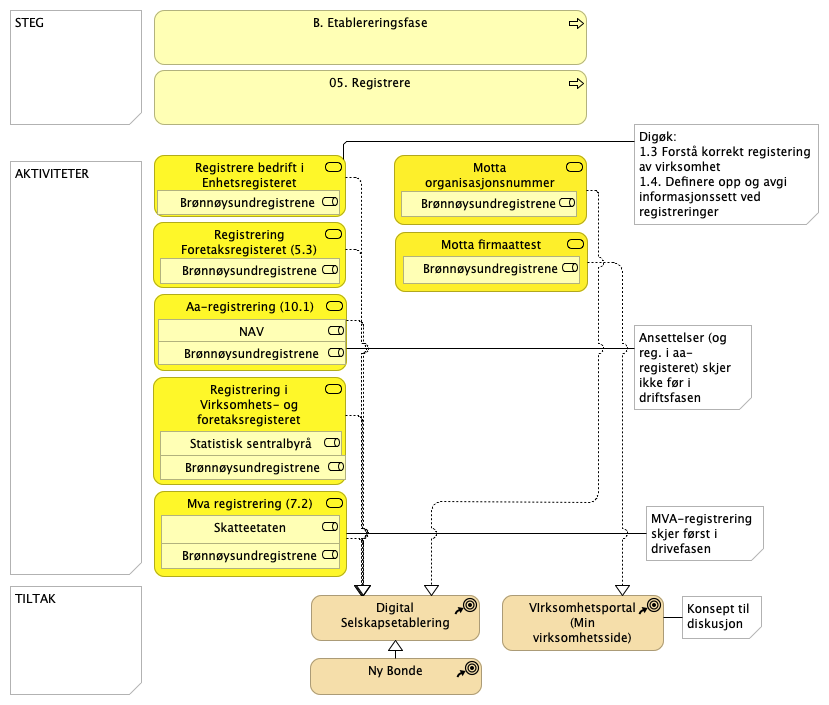
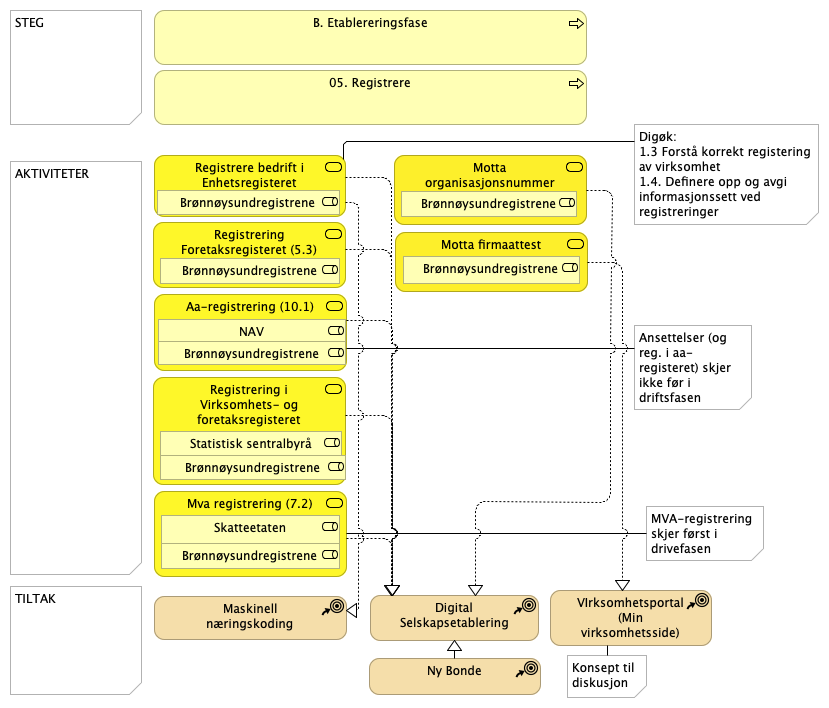
starte og drive bedrift

diff --git a/docs/id-0322705d/views/17fd48d4-a70b-450e-a4de-7787e6095603.html b/docs/id-0322705d/views/17fd48d4-a70b-450e-a4de-7787e6095603.html
@@ -53,9 +53,10 @@
 								<area shape="rect" coords="403,256,580,284" href="../elements/id-85e0d52e-1714-402c-9d18-fdf28509f205.html"  target="element">
 
 						<area shape="rect" coords="395,232,588,292" href="../elements/id-1a14dc49-958b-499f-849e-833440b93e6f.html"  target="element">
-						<area shape="rect" coords="311,595,480,641" href="../elements/id-9fdfa703-6ac3-43db-8d3f-cddaf645ffb6.html"  target="element">
-						<area shape="rect" coords="310,658,482,695" href="../elements/0e2b4eec-7d45-4977-9838-9c6a6f415bc1.html"  target="element">
-						<area shape="rect" coords="502,595,664,651" href="../elements/id-0139d1fc-1711-4ed6-9f17-8fad8ec8545e.html"  target="element">
+						<area shape="rect" coords="370,595,539,641" href="../elements/id-9fdfa703-6ac3-43db-8d3f-cddaf645ffb6.html"  target="element">
+						<area shape="rect" coords="369,658,541,695" href="../elements/0e2b4eec-7d45-4977-9838-9c6a6f415bc1.html"  target="element">
+						<area shape="rect" coords="550,590,712,646" href="../elements/id-0139d1fc-1711-4ed6-9f17-8fad8ec8545e.html"  target="element">
+						<area shape="rect" coords="154,596,347,640" href="../elements/93cb4ca1-ac2d-46a8-9750-775d1c074c73.html"  target="element">
 
 			</map>
 			<div role="tabpanel">
@@ -130,6 +131,7 @@
 											<tr><td> <a href="../elements/id-0139d1fc-1711-4ed6-9f17-8fad8ec8545e.html" target="element"> VIrksomhetsportal (Min virksomhetsside) </a> </td><td class="i18n-elementtype-CourseOfAction"></td></tr>
 											<!-- DEBUG: Skipping element from class com.archimatetool.model.impl.DiagramModelNote -->
 											<!-- DEBUG: Skipping element from class com.archimatetool.model.impl.DiagramModelNote -->
+											<tr><td> <a href="../elements/93cb4ca1-ac2d-46a8-9750-775d1c074c73.html" target="element"> Maskinell n&#230;ringskoding </a> </td><td class="i18n-elementtype-CourseOfAction"></td></tr>
 
 								</tbody>
 							</table>
@@ -153,6 +155,12 @@
 																		<td> <a href="../elements/id-856bbf93-8255-46ac-b9a4-bff8813cc737.html" target="element" class="i18n-elementtype-RealizationRelationship"></a> </td>
 																		<td> <a href="../elements/id-a38feba5-7a8e-4d5f-a96b-7578e8194079.html" target="element"> Registrere bedrift i Enhetsregisteret </a> </td>
 																		<td> <a href="../elements/id-9fdfa703-6ac3-43db-8d3f-cddaf645ffb6.html" target="element"> Digital Selskapsetablering </a> </td>
+																	</tr>
+																	<tr>
+																		<td> <a href="../elements/ef8f8521-280f-4a48-b3ed-2262467601ea.html" target="element">  </a> </td>
+																		<td> <a href="../elements/ef8f8521-280f-4a48-b3ed-2262467601ea.html" target="element" class="i18n-elementtype-RealizationRelationship"></a> </td>
+																		<td> <a href="../elements/id-a38feba5-7a8e-4d5f-a96b-7578e8194079.html" target="element"> Registrere bedrift i Enhetsregisteret </a> </td>
+																		<td> <a href="../elements/93cb4ca1-ac2d-46a8-9750-775d1c074c73.html" target="element"> Maskinell n&#230;ringskoding </a> </td>
 																	</tr>
 
 																			<tr>

diff --git a/docs/id-0322705d/elements/ef8f8521-280f-4a48-b3ed-2262467601ea.html b/docs/id-0322705d/elements/ef8f8521-280f-4a48-b3ed-2262467601ea.html
@@ -1,0 +1,69 @@
+<!DOCTYPE HTML PUBLIC "-//W3C//DTD HTML 4.01 Transitional//EN" "http://www.w3.org/TR/html4/loose.dtd">
+<html class="frame" lang="en">
+<head>
+	<meta http-equiv="Content-Type" content="text/html;charset=utf-8">
+	<title></title>
+
+	<!-- JQUERY (use 1.x branch to be compatible with IE 6/7/8) -->
+	<script type="text/javascript" src="../../lib/jquery/js/jquery-1.11.2.min.js"></script>
+	<!-- BOOTSTRAP -->
+	<link type="text/css" rel="stylesheet" href="../../lib/bootstrap/css/bootstrap-3.3.2.min.css">
+	<link type="text/css" rel="stylesheet" href="../../lib/bootstrap/css/bootstrap-theme-3.3.2.min.css">
+	<script type="text/javascript" src="../../lib/bootstrap/js/bootstrap-3.3.2.min.js"></script>
+	<!-- REPORT SPECIFIC -->
+	<link type="text/css" rel="stylesheet" href="../../css/model.css">
+	<link type="text/css" rel="stylesheet" href="../../css/i18n.css">
+	<script type="text/javascript" src="../../js/frame.js"></script>
+	<script type="text/javascript" src="../../js/imageMapResizer.min.js"></script>
+</head>
+
+<body>
+	<div class="panel panel-default root-panel">
+		<div class="panel-heading root-panel-heading">
+			<b></b>
+			(<span class="i18n-elementtype-RealizationRelationship"></span>)
+			<a class="glyphicon glyphicon-info-sign" id="hint-RealizationRelationship" target="hint"></a>
+		</div>
+		<div class="panel-body root-panel-body">
+			<div role="tabpanel">
+				<!-- Nav tabs -->
+				<ul class="nav nav-tabs" role="tablist">
+					<li role="presentation" class="active"><a href="#documentation" aria-controls="documentation" role="tab" data-toggle="tab" class="i18n-documentation"></a></li>
+					<li role="presentation"><a href="#properties" aria-controls="properties" role="tab" data-toggle="tab" class="i18n-properties"></a></li>
+				</ul>
+
+				<!-- Tab panes -->
+				<div class="tab-content">
+					<div role="tabpanel" class="tab-pane active" id="documentation">
+							<br>
+							<b class="i18n-relation-source"></b>
+								<a href="../elements/id-a38feba5-7a8e-4d5f-a96b-7578e8194079.html" target="element">
+									Registrere bedrift i Enhetsregisteret
+								</a> <br>
+							<b class="i18n-relation-target"></b>
+								<a href="../elements/93cb4ca1-ac2d-46a8-9750-775d1c074c73.html" target="element">
+									Maskinell n&#230;ringskoding
+								</a> <br>
+							<br>
+						<textarea id="docsrc" style="display:none"></textarea>
+						<div id="doctgt" style="white-space:pre-wrap"></div>
+					</div>
+					<div role="tabpanel" class="tab-pane" id="properties">
+						<table class="table table-striped table-hover table-condensed">
+							<thead>
+								<tr>
+									<th class="i18n-key"></th>
+									<th class="i18n-value"></th>
+								</tr>
+							</thead>
+							<tbody>
+							</tbody>
+						</table>
+					</div>
+			  </div>
+			</div>
+		</div>
+	</div>
+	<script type="text/javascript">imageMapResize();</script>
+</body>
+</html>

diff --git a/docs/id-0322705d/elements/93cb4ca1-ac2d-46a8-9750-775d1c074c73.html b/docs/id-0322705d/elements/93cb4ca1-ac2d-46a8-9750-775d1c074c73.html
@@ -1,0 +1,59 @@
+<!DOCTYPE HTML PUBLIC "-//W3C//DTD HTML 4.01 Transitional//EN" "http://www.w3.org/TR/html4/loose.dtd">
+<html class="frame" lang="en">
+<head>
+	<meta http-equiv="Content-Type" content="text/html;charset=utf-8">
+	<title>Maskinell næringskoding</title>
+
+	<!-- JQUERY (use 1.x branch to be compatible with IE 6/7/8) -->
+	<script type="text/javascript" src="../../lib/jquery/js/jquery-1.11.2.min.js"></script>
+	<!-- BOOTSTRAP -->
+	<link type="text/css" rel="stylesheet" href="../../lib/bootstrap/css/bootstrap-3.3.2.min.css">
+	<link type="text/css" rel="stylesheet" href="../../lib/bootstrap/css/bootstrap-theme-3.3.2.min.css">
+	<script type="text/javascript" src="../../lib/bootstrap/js/bootstrap-3.3.2.min.js"></script>
+	<!-- REPORT SPECIFIC -->
+	<link type="text/css" rel="stylesheet" href="../../css/model.css">
+	<link type="text/css" rel="stylesheet" href="../../css/i18n.css">
+	<script type="text/javascript" src="../../js/frame.js"></script>
+	<script type="text/javascript" src="../../js/imageMapResizer.min.js"></script>
+</head>
+
+<body>
+	<div class="panel panel-default root-panel">
+		<div class="panel-heading root-panel-heading">
+			<b>Maskinell n&#230;ringskoding</b>
+			(<span class="i18n-elementtype-CourseOfAction"></span>)
+			<a class="glyphicon glyphicon-info-sign" id="hint-CourseOfAction" target="hint"></a>
+		</div>
+		<div class="panel-body root-panel-body">
+			<div role="tabpanel">
+				<!-- Nav tabs -->
+				<ul class="nav nav-tabs" role="tablist">
+					<li role="presentation" class="active"><a href="#documentation" aria-controls="documentation" role="tab" data-toggle="tab" class="i18n-documentation"></a></li>
+					<li role="presentation"><a href="#properties" aria-controls="properties" role="tab" data-toggle="tab" class="i18n-properties"></a></li>
+				</ul>
+
+				<!-- Tab panes -->
+				<div class="tab-content">
+					<div role="tabpanel" class="tab-pane active" id="documentation">
+						<textarea id="docsrc" style="display:none"></textarea>
+						<div id="doctgt" style="white-space:pre-wrap"></div>
+					</div>
+					<div role="tabpanel" class="tab-pane" id="properties">
+						<table class="table table-striped table-hover table-condensed">
+							<thead>
+								<tr>
+									<th class="i18n-key"></th>
+									<th class="i18n-value"></th>
+								</tr>
+							</thead>
+							<tbody>
+							</tbody>
+						</table>
+					</div>
+			  </div>
+			</div>
+		</div>
+	</div>
+	<script type="text/javascript">imageMapResize();</script>
+</body>
+</html>

diff --git a/docs/id-0322705d/elements/model.html b/docs/id-0322705d/elements/model.html
@@ -804,6 +804,7 @@ Startpunkter
 										dataElements.push({id:"e3622700-9541-45de-8686-8ffa25d0df3c", type:"CourseOfAction", name:decodeURL("S%C3%B8k+i+konkurskarantene+%28Konkursregisteret%29"), description:decodeURL("")});
 										dataElements.push({id:"d3f5928c-200a-46bd-a149-962b5c04d0d2", type:"CourseOfAction", name:decodeURL("Offentlig+informasjon+i+nettbank"), description:decodeURL("")});
 										dataElements.push({id:"af58a96e-566d-4b07-935c-ece1e9d8cbb8", type:"CourseOfAction", name:decodeURL("IPR+lisens+og+panteregister%22+%28Patentstyret%29"), description:decodeURL("")});
+										dataElements.push({id:"93cb4ca1-ac2d-46a8-9750-775d1c074c73", type:"CourseOfAction", name:decodeURL("Maskinell+n%C3%A6ringskoding"), description:decodeURL("")});
 
 
 										dataElements.push({id:"id-cd705856-8995-4a10-8f66-d160841ab0ef", type:"BusinessRole", name:decodeURL("BITS"), description:decodeURL("")});
@@ -4339,6 +4340,7 @@ Startpunkter
 										dataRelationships.push({id:"ba99c683-0f92-49c3-9e98-4e7cfaf9d3f5", type:"RealizationRelationship", name:decodeURL(""), description:decodeURL(""), sourceid:"aa1ac8d5-7d8c-4fbf-be2b-d78aed808733", targetid:"e3622700-9541-45de-8686-8ffa25d0df3c"});
 										dataRelationships.push({id:"b9ffc6f0-0b16-410b-a106-e7e8d6181616", type:"RealizationRelationship", name:decodeURL(""), description:decodeURL(""), sourceid:"id-84d50f04-89b8-4135-b1cb-59b522a9ff52", targetid:"d3f5928c-200a-46bd-a149-962b5c04d0d2"});
 										dataRelationships.push({id:"f665561b-ca54-4c91-b423-6adcf13c2127", type:"RealizationRelationship", name:decodeURL(""), description:decodeURL(""), sourceid:"049363d4-8755-4659-8385-e0024869b7d9", targetid:"af58a96e-566d-4b07-935c-ece1e9d8cbb8"});
+										dataRelationships.push({id:"ef8f8521-280f-4a48-b3ed-2262467601ea", type:"RealizationRelationship", name:decodeURL(""), description:decodeURL(""), sourceid:"id-a38feba5-7a8e-4d5f-a96b-7578e8194079", targetid:"93cb4ca1-ac2d-46a8-9750-775d1c074c73"});
 
 
 												<!-- DEBUG: Skipping view A - Idéfase Steg 01 forretningsidé -->

diff --git a/docs/index.html b/docs/index.html
@@ -439,6 +439,7 @@
                                     				<li class="tree-element"><a href="id-0322705d/elements/e3622700-9541-45de-8686-8ffa25d0df3c.html" target="element"> S&#248;k i konkurskarantene (Konkursregisteret) </a></li>
                                     				<li class="tree-element"><a href="id-0322705d/elements/d3f5928c-200a-46bd-a149-962b5c04d0d2.html" target="element"> Offentlig informasjon i nettbank </a></li>
                                     				<li class="tree-element"><a href="id-0322705d/elements/af58a96e-566d-4b07-935c-ece1e9d8cbb8.html" target="element"> IPR lisens og panteregister" (Patentstyret) </a></li>
+                                    				<li class="tree-element"><a href="id-0322705d/elements/93cb4ca1-ac2d-46a8-9750-775d1c074c73.html" target="element"> Maskinell n&#230;ringskoding </a></li>
 
                                     </ul>
                                 </li>
@@ -9288,6 +9289,10 @@
 													<li class="tree-element"><a href="id-0322705d/elements/f665561b-ca54-4c91-b423-6adcf13c2127.html" target="element">
 															<span class="i18n-elementtype-RealizationRelationship"></span>
 														(Angi IPR - IPR lisens og panteregister" (Patentstyret)) 
+													</a></li>
+													<li class="tree-element"><a href="id-0322705d/elements/ef8f8521-280f-4a48-b3ed-2262467601ea.html" target="element">
+															<span class="i18n-elementtype-RealizationRelationship"></span>
+														(Registrere bedrift i Enhetsregisteret - Maskinell n&#230;ringskoding) 
 													</a></li>
 
 									</ul>
